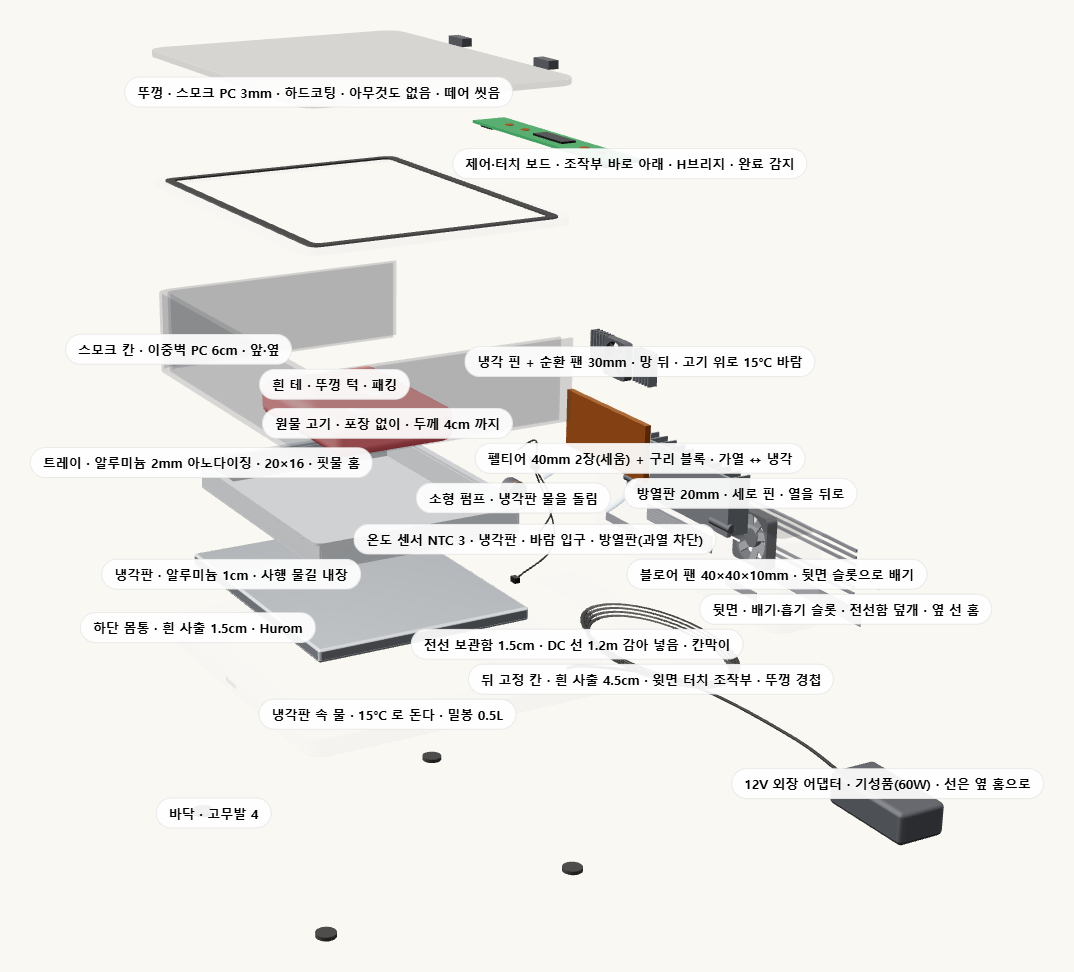
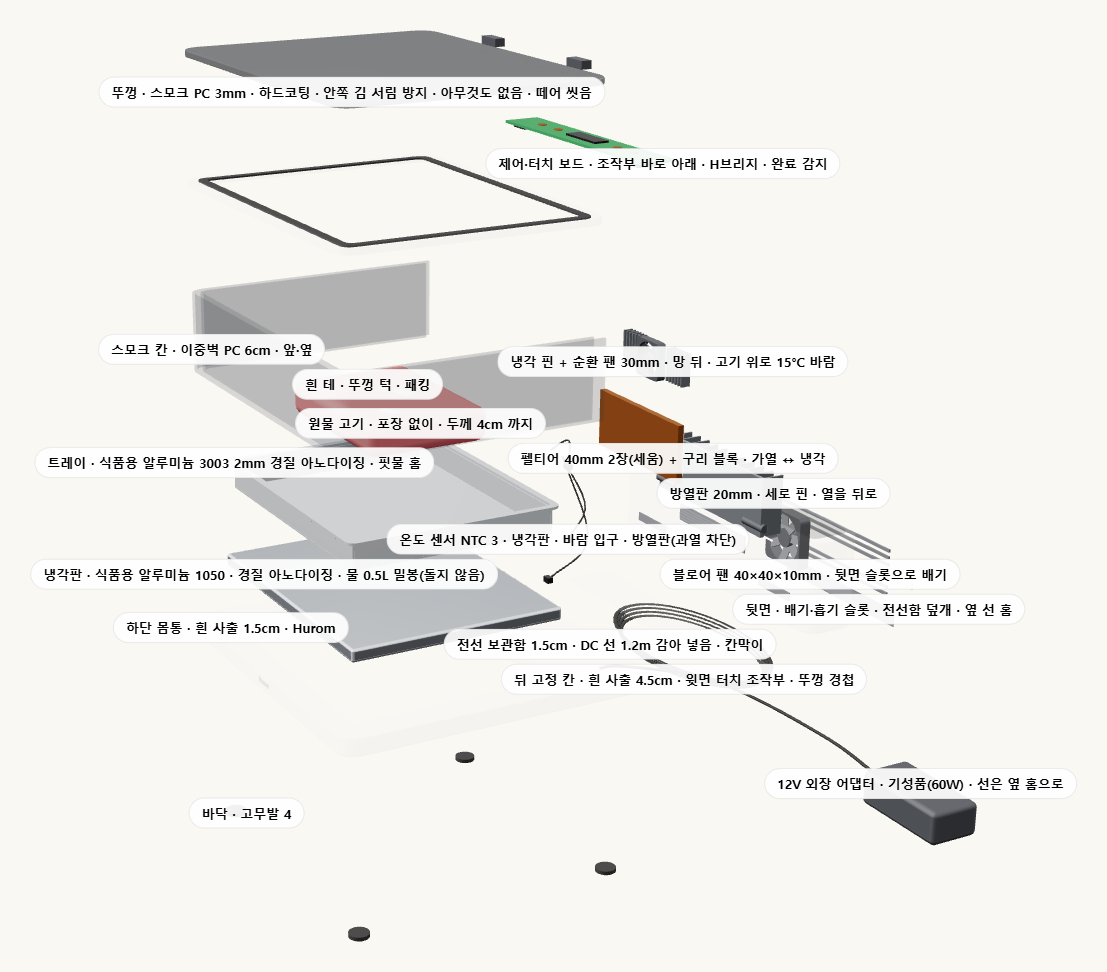
분해도 수정(두팔 검토): 펌프·물길 삭제(물 0.5L 밀봉, 돌지 않음), 뚜껑 스모크 색, 이름표 3003/1050/김 서림 방지 — 부품 18개, 페이지 펌프 문구 정리

diff --git a/index.html b/index.html
@@ -191,7 +191,7 @@ footer{padding:56px 0 72px;font-size:13px;color:var(--sub);border-top:1px solid 
     <div class="eyebrow">휴롬 신제품 기획 제안서 v4 최종 · 디자인 확정 · 2026.11.15</div>
     <h1>저녁 메뉴, <em>지금 정해도</em> 됩니다.</h1>
     <div class="sub">냉동 고기를 올리기만 하면, 15°C 냉각판과 15°C 바람이 감쌉니다</div>
-    <p>어제 꺼내 놓는 걸 잊은 냉동 삼겹살. 전자레인지는 겉이 익고, 실온은 찜찜합니다.<br>급속 해동기는 고기를 알루미늄 트레이에 그대로 올리고 뒤쪽 조작부의 「시작」을 한 번 누르면 됩니다. 물은 트레이 아래 밀봉된 냉각판 속에서만 돌고, 사용자는 물을 붓지도 버리지도 않습니다.</p>
+    <p>어제 꺼내 놓는 걸 잊은 냉동 삼겹살. 전자레인지는 겉이 익고, 실온은 찜찜합니다.<br>급속 해동기는 고기를 알루미늄 트레이에 그대로 올리고 뒤쪽 조작부의 「시작」을 한 번 누르면 됩니다. 트레이 아래 냉각판 속 물 0.5L는 밀봉돼 있어(돌지 않음) 사용자는 물을 붓지도 버리지도 않습니다.</p>
     <div class="chips"><span class="chip">터치 한 번 · 15°C 표시</span> <span class="chip">지퍼백 · 물 붓기 없음</span> <span class="chip">표면 21°C 아래 유지</span> <span class="chip">26×25×9cm · 높이 9cm</span></div>
   </div>
 </header>
@@ -202,7 +202,7 @@ footer{padding:56px 0 72px;font-size:13px;color:var(--sub);border-top:1px solid 
     <h2>휴롬 급속 해동기 — 서늘고 다음, 재료 준비 가전 두 번째</h2>
     <p class="lead2">서늘고가 「사 온 재료를 지키는」 제품이라면, 급속 해동기는 「얼려 둔 재료를 바로 쓰게 하는」 제품입니다. 둘 다 조리 앞단의 재료 준비 가전이고, 펠티어·팬·12V 어댑터를 같이 씁니다. v1의 「물통에 지퍼백째 담그기」는 버리고, <b>물이 트레이 바깥에서만 도는 「바닥 냉각판 트레이」</b>로 바꿨습니다.</p>
     <div class="sum3">
-      <div><small>목적</small><p>냉동 고기·생선을 <b>포장 없이 알루미늄 트레이에 올리면</b>, 트레이 아래 밀봉 냉각판 속 물이 15°C 안팎으로 돌고, 뒤 벽의 작은 팬이 같은 온도의 공기를 윗면에 흘립니다. 세균이 자라는 온도(4~60°C)에 표면이 오래 머물지 않게 하면서 얇은 고기는 15~20분, 2cm 두께는 한 시간 안팎에 녹입니다.</p></div>
+      <div><small>목적</small><p>냉동 고기·생선을 <b>포장 없이 알루미늄 트레이에 올리면</b>, 트레이 아래 밀봉 냉각판(물 0.5L, 펠티어가 15°C 안팎으로 맞춤)이 바닥을, 뒤 벽의 작은 팬이 같은 온도의 공기를 윗면에 흘립니다. 세균이 자라는 온도(4~60°C)에 표면이 오래 머물지 않게 하면서 얇은 고기는 20~25분, 2cm 두께는 60~70분에 녹입니다.</p></div>
       <div><small>왜 휴롬인가</small><ul><li><b>같은 고객:</b> 재료를 미리 사서 쟁여 두는 집이 휴롬 고객입니다. 냉동실에 고기가 늘 있습니다.</li><li><b>같은 부품:</b> 서늘고의 펠티어·팬·12V 어댑터·제어 보드 구조를 그대로 씁니다. 개발비와 공급처를 나눠 씁니다.</li><li><b>같은 약속:</b> 「재료를 가장 좋은 상태로」. 해동은 재료 상태를 가장 많이 망치는 순간입니다.</li></ul></div>
       <div><small>풀려는 문제</small><p>냉장 해동은 하루가 걸리고, 전자레인지는 겉이 익고 육즙이 빠지며, 실온·뜨거운 물은 위험합니다. 식약처·USDA가 권하는 「21°C 이하 찬물 해동」은 지퍼백에 옮기고 30분마다 물을 갈아야 해서 아무도 제대로 하지 않습니다. 그 일을 기계가 대신하되, <b>물과 봉지를 사용자 손에서 없앱니다.</b></p></div>
     </div>
@@ -261,7 +261,7 @@ footer{padding:56px 0 72px;font-size:13px;color:var(--sub);border-top:1px solid 
       <h2>올리고, 덮고, 누르면 끝.</h2>
       <div class="steps">
         <div><i>1</i><div><b>고기를 트레이에 그대로 올립니다</b><p>포장을 벗긴 원물이든 랩 포장 그대로든 알루미늄 트레이에 올립니다. 지퍼백에 옮기지 않고, 물을 붓지도 않습니다. 한 번에 고기 1~2팩(600g)까지.</p></div></div>
-        <div><i>2</i><div><b>뚜껑을 덮고 뒤쪽 조작부의 「시작」을 누릅니다</b><p>트레이 아래 냉각판 속 물이 돌기 시작하고 펠티어가 15°C 안팎에 맞춥니다. 뒤 벽 속 작은 팬이 뚜껑 아래 공기를 돌려 윗면에도 같은 온도의 바람이 닿습니다. 뒤 조작부의 「15°C」가 켜집니다.</p></div></div>
+        <div><i>2</i><div><b>뚜껑을 덮고 뒤쪽 조작부의 「시작」을 누릅니다</b><p>펠티어가 트레이 아래 냉각판을 15°C 안팎에 맞춥니다(속의 물 0.5L는 밀봉, 돌지 않음). 뒤 벽 속 작은 팬이 뚜껑 아래 공기를 돌려 윗면에도 같은 온도의 바람이 닿습니다. 뒤 조작부의 「15°C」가 켜집니다.</p></div></div>
         <div><i>3</i><div><b>다 녹으면 알려 주고, 차갑게 지킵니다</b><p>고기가 열을 더 가져가지 않으면(펠티어가 쓰는 힘이 뚝 떨어지면) 완료로 보고 알림음 한 번. 그 뒤에는 냉각판과 바람을 10°C로 내려 최대 2시간 냉장고처럼 지킵니다. 트레이를 들어 헹구면 끝입니다.</p></div></div>
       </div>
       <div class="led"><span><i style="background:#ffffff;border:1px solid #bbb"></i>「15°C」 · 해동 중</span><span><i style="background:#9fc3ee"></i>「10°C」 + 알림음 · 완료, 차갑게 보관 중</span><span><i style="background:#ef5b4c"></i>깜빡임 + 「E1」 · 뚜껑 열림 · 21°C 초과</span></div>
@@ -274,8 +274,8 @@ footer{padding:56px 0 72px;font-size:13px;color:var(--sub);border-top:1px solid 
     <div class="xv-text">
       <div class="xv-step on"><div class="kicker">구조 · 겉모습 U4 (식자재 세척기 UC-B01 계열)</div><h2>높이 9cm, 세척기와 한 식구.</h2><p>흰 하단 1.5cm 위에 이중벽 스모크 칸 6cm, 그 위에 아무것도 없는 스모크 PC 뚜껑. 뒤쪽 4.5cm는 움직이지 않는 부품 칸이고, 그 윗면의 블랙 유리에 터치 아이콘과 「15°C」가 있습니다. 스크롤을 내리면 부품별로 분해됩니다.</p></div>
       <div class="xv-step"><div class="kicker">구조 · 뒷모습</div><h2>더운 바람과 전선은 모두 뒤로.</h2><p>방열판 바람은 뒷면 위 슬롯으로 나가고, 아래 슬롯으로 들어옵니다. 뒤 칸 맨 아래 1.5cm는 칸막이로 나눈 전선 보관함 — DC 선 1.2m를 감아 넣고 옆 홈으로 필요한 만큼만 뺍니다. 윗면엔 구멍이 없어 핏물·물이 들어갈 데가 없습니다.</p></div>
-      <div class="xv-step"><div class="kicker">구조 · 냉각판과 바람</div><h2>물은 바닥 냉각판 속에서만 돕니다.</h2><p>옆면이 투명 칸이라 옆 재킷은 없습니다. 대신 트레이 아래 알루미늄 냉각판(1cm) 속을 15°C 물이 사행으로 돌고(파란 점), 뒤 벽 안쪽 냉각 핀을 지난 같은 온도의 바람이 고기 위·옆을 스칩니다(하늘색). 펠티어 2장의 찬 면이 냉각판 물과 냉각 핀을 같이 식힙니다.</p></div>
-      <div class="xv-step"><div class="kicker">구조 · 분해</div><h2>부품 20개, 경첩을 지나는 선이 없습니다.</h2><p>트레이와 뚜껑은 들어서 빼 씻습니다. 온도 센서는 NTC 3개(냉각판·바람 입구·방열판)입니다. 뒤 칸에 펠티어 40mm 2장(세움) → 구리 블록 → 방열판 20mm → 블로어 팬이 한 줄로 서고, 펌프·순환 팬·제어 보드도 같은 칸에 있어 배선이 짧습니다. 어댑터는 바깥 기성품입니다.</p></div>
+      <div class="xv-step"><div class="kicker">구조 · 냉각판과 바람</div><h2>바닥은 냉각판, 위와 옆은 바람.</h2><p>옆면이 투명 칸이라 옆 재킷은 없습니다. 트레이 아래 알루미늄 1050 냉각판(1cm, 물 0.5L 밀봉 — 돌지 않고 냉기를 담아 둠)이 바닥을 맡고, 뒤 벽 안쪽 냉각 핀을 지난 같은 온도의 바람이 고기 위·옆을 스칩니다(하늘색). 펠티어 2장의 찬 면이 냉각판과 냉각 핀을 같이 식힙니다. 펌프·물길은 없습니다.</p></div>
+      <div class="xv-step"><div class="kicker">구조 · 분해</div><h2>부품 18개, 경첩을 지나는 선이 없습니다.</h2><p>트레이와 뚜껑은 들어서 빼 씻습니다. 온도 센서는 NTC 3개(냉각판·바람 입구·방열판)입니다. 뒤 칸에 펠티어 40mm 2장(세움) → 구리 블록 → 방열판 20mm → 블로어 팬이 한 줄로 서고, 순환 팬·제어 보드도 같은 칸에 있어 배선이 짧습니다. 펌프는 없습니다. 어댑터는 바깥 기성품입니다.</p></div>
     </div>
     <div class="xv-stage"><canvas id="xv-canvas" aria-label="급속 해동기 분해도 3D"></canvas><div id="xv-labels"></div><div class="xv-colors" role="group" aria-label="몸체 색 · 확정은 화이트"><button data-xv-color="white" class="on"><i style="background:#f3f3f0;border:1px solid #ccc"></i>화이트(확정)</button><button data-xv-color="graphite"><i style="background:#4b4f55"></i>그래파이트</button><button data-xv-color="black"><i style="background:#15171a"></i>블랙</button></div></div>
   </div>
@@ -292,7 +292,7 @@ footer{padding:56px 0 72px;font-size:13px;color:var(--sub);border-top:1px solid 
     </div>
     <div class="sum2 rv" style="margin-top:32px;grid-template-columns:1.3fr 1fr">
       <div><small>최종 이미지 1 · 대표 (앞 45°) — 흰 상자 · 이중벽 스모크 PC 띠 · 아무것도 없는 스모크 PC 뚜껑 · 뒤 칸 윗면 조작부 · 회색 「Hurom」</small><div class="photo" style="margin:0 0 10px;border-radius:16px"><img src="img/hero.png" alt="최종 이미지 1 · 대표 · 앞 45° · 26×25×9cm"></div></div>
-      <div><small>최종 이미지 2 · 분해도 — 뒤 칸을 열면 펠티어 2장(세움) · 구리 블록 · 방열판 · 블로어 팬 · 맨 아래 전선 보관함 · 무광 회색 알루미늄 트레이(핏물 홈)</small><div class="photo" style="margin:0 0 10px;border-radius:16px"><img src="img/explode.png" alt="최종 이미지 2 · 분해도 · 부품 20개"></div></div>
+      <div><small>최종 이미지 2 · 분해도 — 뒤 칸을 열면 펠티어 2장(세움) · 구리 블록 · 방열판 · 블로어 팬 · 맨 아래 전선 보관함 · 무광 회색 알루미늄 트레이(핏물 홈)</small><div class="photo" style="margin:0 0 10px;border-radius:16px"><img src="img/explode.png" alt="최종 이미지 2 · 분해도 · 부품 18개"></div></div>
     </div>
     <div class="sum2 rv">
       <div><small>높이 9cm 나눠 쓰기</small><ul>
@@ -352,7 +352,7 @@ footer{padding:56px 0 72px;font-size:13px;color:var(--sub);border-top:1px solid 
       <div><b>60W</b><span>12V 외장 어댑터 최대 · 펠티어 2개 가열 때</span></div>
       <div><b>5</b><span>뒤 칸 윗면 터치 5 + 「15°C」 표시 · 앱·블루투스 없음</span></div>
       <div><b>3벌</b><span>새 금형 · 하단 몸통 · 뒤 칸 · 흰 테 · 트레이는 프레스, 냉각판은 다이캐스팅, 스모크 칸은 PC 사출</span></div>
-      <div><b>35dB↓</b><span>소음 목표 · 펌프·팬 2개 · 도서관 수준</span></div>
+      <div><b>35dB↓</b><span>소음 목표 · 팬 2개(펌프 없음) · 도서관 수준</span></div>
       <div><b>0</b><span>사용자가 다루는 물 · 냉각판 0.5L 밀봉 · 고기와 전기 사이에 물 없음</span></div>
     </div>
     <table class="spect rv">
@@ -360,7 +360,7 @@ footer{padding:56px 0 72px;font-size:13px;color:var(--sub);border-top:1px solid 
       <tr><td>제품명</td><td>휴롬 급속 해동기 (가칭) · 이름 후보: 녹임고 · 스르르 · 해동이 → 미정</td></tr>
       <tr><td>크기 · 무게</td><td>약 26 × 25 × 9cm (W×D×H, 뒤 부품 칸 4.5cm 포함) · 약 2.0kg (목표, 물 포함)</td></tr>
       <tr><td>트레이</td><td>식품용 알루미늄 <b>3003</b> 2mm 프레스 + 경질 아노다이징(식품 접촉 등급, 열전도 약 190W/m·K) · 안쪽 약 20 × 16 × 2cm · 둘레 1cm 핏물 홈 · 고기 두께 최대 4cm · 들어서 빼고 <b>손 세척 권장</b>(식기세척기 강알칼리 세제는 피막 손상)</td></tr>
-      <tr><td>냉각판 · 물</td><td>식품용 알루미늄 <b>1050</b>(순도 99.5%, 열전도 약 220W/m·K, 겉면 아노다이징) 약 21.6 × 17 × 1cm, 속에 사행 물길 물 0.5L · 공장에서 채워 봉함(사용자 보충 없음) · <b>바닥에만</b>(옆 재킷 없음 — 옆면이 투명 칸)</td></tr>
+      <tr><td>냉각판 · 물</td><td>식품용 알루미늄 <b>1050</b>(순도 99.5%, 열전도 약 220W/m·K, 겉면 아노다이징) 약 21.6 × 17 × 1cm, 속에 물 0.5L <b>밀봉(돌지 않음 — 펌프·물길 없음, 냉기를 담아 두는 열용량)</b> · 공장에서 채워 봉함(사용자 보충 없음) · <b>바닥에만</b>(옆 재킷 없음 — 옆면이 투명 칸)</td></tr>
       <tr><td>닿는 부품 모두 식품용</td><td>고기·물·공기에 닿는 부품은 전부 식품 접촉 등급(준보 「다 식품용」) — 트레이: 알루미늄 3003 + 경질 아노다이징 · 냉각판: 알루미늄 1050 + 아노다이징, 안에 물 밀봉 · 뚜껑: 스모크 PC 또는 트라이탄 2~3mm(BPA-free, 식품 용기 등급) · 안쪽 칸 벽·망: PP 또는 PC, 냉각 핀: 아노다이징 알루미늄 · 뚜껑 패킹: 식품용 실리콘 · 증빙: 원소재 성적서 + 식품위생법 「기구 및 용기·포장」 기준 재질별 용출 시험 성적서(ODM 견적 요청서에 포함)</td></tr>
       <tr><td>겉모습 · 색상</td><td>휴롬 식자재 세척기 UC-B01 계열(U4 확정) — 흰 무광 하단 1.5cm + 「Hurom」 · 이중벽 스모크 PC 칸 6cm(앞·옆) · 흰 테 · 아무것도 없는 스모크 PC(또는 트라이탄) 뚜껑 2~3mm — 바깥 하드코팅 · 안쪽 김 서림 방지 코팅 · 가벼워 들어서 분리 · 뒤 고정 칸 윗면 블랙 유리 조작부. 색은 흰색 + 블랙 유리(서늘고 3색 하단은 쓰지 않음)</td></tr>
       <tr><th colspan="2">해동</th></tr>
@@ -372,7 +372,7 @@ footer{padding:56px 0 72px;font-size:13px;color:var(--sub);border-top:1px solid 
       <tr><td>사용 조건</td><td>포장 벗긴 원물 또는 랩 포장 그대로 · 뚜껑 닫힘 감지(열리면 팬 정지)</td></tr>
       <tr><th colspan="2">구조 · 전기</th></tr>
       <tr><td>온도 조절</td><td>펠티어 소자 2개(TEC1-127 계열) · H브리지로 가열↔냉각 전환 · 구리 열전달 블록(선택)이 냉각판과 냉각 핀에 밀착</td></tr>
-      <tr><td>순환</td><td>소형 자석 구동 펌프 · 밀봉 회로 · 분당 약 1~2L · 물에 닿는 전기부 없음</td></tr>
+      <tr><td>순환</td><td>물 순환 없음(펌프 없음) · 공기만 30mm 팬으로 순환 · 물에 닿는 전기부 없음</td></tr>
       <tr><td>센서</td><td>온도 NTC 3개(아래 줄) · 뚜껑 열림 감지(자석 스위치) · 적외선 센서 없음</td></tr>
       <tr><td>방열</td><td>뒤 고정 칸 속 방열판 20mm + 블로어 팬 40×40×10mm · 뒷면 아래 슬롯 흡기 → 뒷면 위 슬롯 배기 · 윗면에는 구멍 없음</td></tr>
       <tr><td>전원</td><td>12V 외장 어댑터 60W(KC 기성품) · 해동 중 평균 약 35W · 보관 중 약 20W</td></tr>
@@ -398,7 +398,7 @@ footer{padding:56px 0 72px;font-size:13px;color:var(--sub);border-top:1px solid 
     <div class="modes rv">
       <div class="mode"><b>국내 · 식약처</b><div class="t">21°C 이하</div><p>냉동식품은 냉장 온도나 <b>21°C 이하의 흐르는 물</b>로 해동하라는 기준입니다. 급할 때는 전자레인지 해동도 됩니다. (정책브리핑을 요약한 기사 기준 · 식약처 원문은 확인 중)</p></div>
       <div class="mode"><b>미국 · USDA</b><div class="t">30분마다 물 갈기</div><p>찬물 해동은 <b>포장한 채로</b> 물에 담그고, 물이 차갑게 유지되도록 30분마다 갈아 줍니다. 해동이 끝나면 바로 조리합니다. 세균이 빨리 자라는 온도는 약 4~60°C(40~140°F)입니다.</p></div>
-      <div class="mode"><b>그래서 바닥 냉각판</b><div class="t">기준의 핵심만 가져옴</div><p>기준이 말하는 핵심은 「표면이 21°C를 넘지 않게, 쉬지 않고 열을 넘겨라」입니다. 펌프가 냉각판 속 물을 계속 돌리고 펠티어가 21°C 아래에 잡아 두면 「30분마다 물 갈기」가 필요 없고, 고기가 물에 닿지 않으니 교차오염 걱정도 없습니다.</p></div>
+      <div class="mode"><b>그래서 바닥 냉각판</b><div class="t">기준의 핵심만 가져옴</div><p>기준이 말하는 핵심은 「표면이 21°C를 넘지 않게, 쉬지 않고 열을 넘겨라」입니다. 펠티어가 냉각판과 바람을 21°C 아래에 잡아 두면 「30분마다 물 갈기」가 필요 없고, 고기가 물에 닿지 않으니 교차오염 걱정도 없습니다.</p></div>
     </div>
     <div class="sum2 rv" style="margin-top:28px">
       <div><small>설계에 넣는 안전 장치 3개</small><ul>
@@ -420,7 +420,7 @@ footer{padding:56px 0 72px;font-size:13px;color:var(--sub);border-top:1px solid 
     <div class="rv">
       <div class="kicker">개발비와 소싱</div>
       <h2>가정용 완제품 ODM은 없습니다. 부품을 모아 직접 설계합니다.</h2>
-      <p class="lead2">서늘고와 달리 그대로 가져다 쓸 「가정용 해동기 플랫폼」이 시장에 없습니다. 대신 들어가는 부품은 전부 흔한 것들입니다. 펠티어·팬·어댑터는 서늘고와 같은 곳에서, 펌프는 어항·커피머신 펌프 업체에서, 트레이는 알루미늄 프레스·아노다이징 업체에서, 냉각판은 알루미늄 다이캐스팅 업체에서 받아 조합합니다.</p>
+      <p class="lead2">서늘고와 달리 그대로 가져다 쓸 「가정용 해동기 플랫폼」이 시장에 없습니다. 대신 들어가는 부품은 전부 흔한 것들입니다. 펠티어·팬·어댑터는 서늘고와 같은 곳에서, 트레이는 알루미늄 프레스·아노다이징 업체에서, 냉각판은 알루미늄 다이캐스팅 업체에서 받아 조합합니다.</p>
     </div>
     <div class="rv" style="margin-top:24px">
       <small style="display:block;margin-bottom:8px;color:var(--sub)">개발비 추정 · 견적 받기 전 범위(만 원)</small>
@@ -428,7 +428,7 @@ footer{padding:56px 0 72px;font-size:13px;color:var(--sub);border-top:1px solid 
       <tr><td><b>산업 디자인</b></td><td>겉모습·뚜껑·색 확정, 3D 설계 데이터 (서늘고와 한 가족으로)</td><td>800~1,500</td><td>휴롬 디자인팀 + 외주 디자인 회사</td></tr>
       <tr><td><b>워킹 목업·시제품</b></td><td>3D 프린팅·CNC 목업 2~3대 + 해동 실험용 벤치</td><td>400~900</td><td>국내 시제품 업체</td></tr>
       <tr><td><b>금형 3벌 + 트레이·냉각판</b></td><td>하단 몸통·뒤 칸·흰 테 사출 금형 3벌 + 스모크 칸 PC 사출 + 알루미늄 트레이 프레스 1벌 + 알루미늄 냉각판 다이캐스팅 1벌</td><td>3,500~6,500</td><td>휴롬 기존 사출 협력사 + 프레스·다이캐스팅 업체 또는 중국 ODM 일괄</td></tr>
-      <tr><td><b>온도·순환 모듈</b></td><td>펠티어 2·구리 블록·방열판·팬 2(방열·안쪽 순환)·소형 펌프</td><td>부품비 외 개발비 적음</td><td>서늘고 공급처 + 펌프 업체 기성품</td></tr>
+      <tr><td><b>온도·순환 모듈</b></td><td>펠티어 2·구리 블록·방열판·팬 2(방열·안쪽 순환) · 펌프 없음</td><td>부품비 외 개발비 적음</td><td>서늘고 공급처 기성품</td></tr>
       <tr><td><b>제어 보드·펌웨어</b></td><td>H브리지 가열↔냉각, 온도 제어, 완료 감지 알고리즘, 안전 정지</td><td>800~1,500</td><td>서늘고 보드 뼈대 재사용 + 국내 임베디드 외주</td></tr>
       <tr><td><b>해동 안전 시험</b></td><td>두께별 시간·표면 온도 기록, 미생물 시험(외부 기관) → 표시 문구 근거</td><td>500~1,000</td><td>국내 식품 시험 기관 + 사내 실험</td></tr>
       <tr><td><b>인증·시험</b></td><td>본체 KC 전자파, 식품 접촉부 소재 시험 (어댑터는 KC 기성품)</td><td>300~600</td><td>국내 시험인증기관</td></tr>
@@ -444,7 +444,6 @@ footer{padding:56px 0 72px;font-size:13px;color:var(--sub);border-top:1px solid 
       <div><small>부품별 소싱처 · 초안 (곽두팔, 2026-11-14)</small><ul>
         <li><b>완제품 ODM:</b> 업소용 해동기는 톤 단위 산업용 업체뿐이라 가정용 완제품 ODM은 없습니다. 그래서 <b>자체 설계 + 부품 소싱</b>이 맞습니다.</li>
         <li><b>펠티어·팬·12V 어댑터:</b> 서늘고 공급처를 같이 씁니다. 펠티어는 12V 범용 규격(TEC1-127 계열)이라 공급 위험이 낮습니다.</li>
-        <li><b>소형 수중 펌프(자석 구동):</b> 어항·커피머신 펌프 업체에서 기성품으로 받습니다.</li>
         <li><b>트레이·망:</b> 알루미늄 프레스 + 식품 등급 경질 아노다이징 업체(시중 해동판 제조사와 같은 공정). 기성 규격에 가깝게 맞추면 프레스 금형을 아낄 수 있습니다.</li>
         <li><b>알루미늄 물 재킷:</b> 국내 다이캐스팅 업체 또는 알루미늄 판금 용접(시제품 단계). 밀봉·누수 시험 조건을 같이 넣습니다.</li>
         <li><b>해동판 부품(B안·보조용):</b> 중국 주방용품 OEM 업체들이 알루미늄 해동판을 이미 만듭니다 — <a href="https://kr.made-in-china.com/factory/defrost-plate.html" target="_blank" rel="noopener">Made-in-China 해동판 업체 목록</a> · <a href="https://www.alibaba.com/product-introduction/Quick-Thawing-Metal-Plate-Magic-Kitchen_1601383505838.html" target="_blank" rel="noopener">알루미늄 해동판 예시(Alibaba)</a></li></ul>
@@ -461,14 +460,14 @@ footer{padding:56px 0 72px;font-size:13px;color:var(--sub);border-top:1px solid 
         <li><b>서늘고와 묶어 집행.</b> 보드·펠티어·어댑터를 같이 개발·구매하면 둘 다 싸집니다.</li>
         <li><b>정부 지원.</b> 식품 안전·주방가전 신제품 개발 과제. 기업 규모 요건부터 확인합니다.</li></ul></div>
       <div><small>돈 쓰는 순서 · 큰돈은 Go 결정 뒤에</small><ul>
-        <li><b>1단계 · 확인(약 1천만 원):</b> 기성 펌프·히터로 벤치를 만들어 두께별 시간과 표면 온도를 잽니다. 설문과 함께 Go/Stop.</li>
+        <li><b>1단계 · 확인(약 1천만 원):</b> 기성 펠티어 냉각판·USB 팬으로 벤치를 만들어 두께별 시간과 표면 온도를 잽니다. 설문과 함께 Go/Stop.</li>
         <li><b>2단계 · 디자인·목업·견적(약 2~3천만 원):</b> 겉모습 확정, 워킹 목업, 부품 업체 견적.</li>
         <li><b>3단계 · 금형·안전 시험·인증(4~8천만 원):</b> 양산 결정 뒤에만 집행합니다.</li>
         <li><b>4단계 · 초기 양산:</b> 운전자금으로 별도.</li></ul></div>
       <div><small>부품 견적 요청서에 넣을 것</small><ul>
-        <li>알루미늄 트레이 2mm 아노다이징 안쪽 20×16×2cm(핏물 홈), 알루미늄 냉각판(물길 내장, 밀봉), 이중벽 PC 스모크 칸, 스모크 PC 뚜껑(하드코팅·김 서림 방지) — 식품 접촉 재료는 모두 식품용 등급</li>
+        <li>알루미늄 트레이 2mm 아노다이징 안쪽 20×16×2cm(핏물 홈), 알루미늄 1050 냉각판(물 0.5L 밀봉, 돌지 않음), 이중벽 PC 스모크 칸, 스모크 PC 뚜껑(하드코팅·김 서림 방지) — 식품 접촉 재료는 모두 식품용 등급</li>
         <li>재킷 온도 15°C ±1 유지(실온 5~30°C 시작), 60W 안에서 가열·냉각 전환</li>
-        <li>소형 밀봉 펌프 분당 1~2L + 30mm 순환 팬, 소음 35dB 이하, 12V</li>
+        <li>30mm 순환 팬 + 블로어 팬(펌프 없음), 소음 35dB 이하, 12V</li>
         <li>정전식 터치 5·「15°C」 LED·부저, 전선 보관함(DC 선 1.2m), 12V 외장 어댑터, 금형 벌수·개발비·최소 주문량·샘플 일정·KC 경험</li></ul></div>
     </div>
   </div>
@@ -526,10 +525,10 @@ footer{padding:56px 0 72px;font-size:13px;color:var(--sub);border-top:1px solid 
       <p class="lead2">서늘고와 같은 순서입니다. 기성 부품으로 벤치를 만들어 「정말 빠른지」와 「표면이 안전한지」를 먼저 재고, 설문으로 「살 사람이 있는지」를 봅니다.</p>
     </div>
     <div class="gate rv">
-      <div><small>1단계 · 1~2주차</small><b>벤치 실험</b><p>알루미늄 판 아래로 15°C 물을 어항 펌프로 돌리는 「냉각판 모형」 위에 GN 팬 트레이를 올리고, 뒤에서 USB 팬으로 같은 온도의 바람을 보냅니다. 삼겹살 1·2·3cm, 생선 토막으로 중심·표면 온도를 열전대로 기록합니다. 비교군은 담금식·해동판·냉장.</p></div>
+      <div><small>1단계 · 1~2주차</small><b>벤치 실험</b><p>15°C로 맞춘 알루미늄 판(펠티어 냉각판 모형, 속에 물 밀봉) 위에 GN 팬 트레이를 올리고, 뒤에서 USB 팬으로 같은 온도의 바람을 보냅니다. 삼겹살 1·2·3cm, 생선 토막으로 중심·표면 온도를 열전대로 기록합니다. 비교군은 담금식·해동판·냉장.</p></div>
       <div><small>2단계 · 2~3주차</small><b>고객 설문</b><p>해동 빈도·현재 방법·기다릴 수 있는 시간·물 다루기 수용도. 구매 의향은 가격 없이 「있으면 쓰겠다」로 묻습니다.</p></div>
       <div><small>3단계 · 4주차</small><b>Go / Stop</b><p>아래 기준 4개를 모두 넘으면 디자인·목업·견적(2단계 예산)으로 넘어갑니다.</p></div>
-      <div><small>Go 기준 4개</small><b>숫자로 판정</b><p>① 2cm 삼겹살 60분 이내 ② 해동 내내 표면 15°C 이하(윗면 포함) ③ 설문 구매 의향 20% 이상 ④ 펌프·팬 소음 35dB 이하</p></div>
+      <div><small>Go 기준 4개</small><b>숫자로 판정</b><p>① 2cm 삼겹살 60분 이내 ② 해동 내내 표면 15°C 이하(윗면 포함) ③ 설문 구매 의향 20% 이상 ④ 팬 소음 35dB 이하</p></div>
     </div>
     <p class="note" style="margin-top:20px">일정·OEM 문의·안전 기준·디자인 시안·가격은 곽두팔, 페이지·3D·실험 설계는 강명식이 맡습니다. 펀딩 내용은 이 문서에 넣지 않습니다.</p>
   </div>

diff --git a/explode.js b/explode.js
@@ -177,7 +177,7 @@ window.xvSetColor = setColor;
   g.add(extrudeUp(rrect(W - 0.02, FD - 0.02, R, new THREE.Shape(), 0, -FZ), 0.05, M.lidGlass, 0, 0.01));
   [-0.6, 0.6].forEach(x => { const c = new THREE.Mesh(new THREE.BoxGeometry(0.2, 0.06, 0.08), M.dark); c.position.set(x, 0.04, -FD / 2 + 0.06); g.add(c); });
   g.position.set(0, BASE + GL + RIM, 0);
-  part('뚜껑 · 스모크 PC 3mm · 하드코팅 · 아무것도 없음 · 떼어 씻음', g, [0, 3.7, 0], new THREE.Vector3(1.0, 0.05, 1.0));
+  part('뚜껑 · 스모크 PC 3mm · 하드코팅 · 안쪽 김 서림 방지 · 아무것도 없음 · 떼어 씻음', g, [0, 3.7, 0], new THREE.Vector3(1.0, 0.05, 1.0));
 }
 /* 6. 트레이 — 알루미늄 2mm + 경질 아노다이징(식품 등급), 원물을 그대로 올림. 가장자리 핏물 홈, 들어서 빼고 손 세척 */
 const tray = new THREE.Group();
@@ -190,7 +190,7 @@ const tray = new THREE.Group();
   const rimS = rrect(w + 0.1, d + 0.1, 0.08); rimS.holes.push(rrect(w - 0.01, d - 0.01, 0.04));
   const rimM = new THREE.Mesh(new THREE.ExtrudeGeometry(rimS, { depth: 0.02, bevelEnabled: false, curveSegments: 24 }), M.steel); rimM.rotation.x = -Math.PI / 2; rimM.position.y = TDEEP; tray.add(rimM);
   tray.position.set(0, BASE, ZC);
-  part('트레이 · 알루미늄 2mm 아노다이징 · 20×16 · 핏물 홈', tray, [0, 1.1, 0], new THREE.Vector3(-1.0, 0.2, 0.8));
+  part('트레이 · 식품용 알루미늄 3003 2mm 경질 아노다이징 · 핏물 홈', tray, [0, 1.1, 0], new THREE.Vector3(-1.0, 0.2, 0.8));
 }
 /* 7. 원물 고기 — 지퍼백 없이 트레이에 그대로. 두께 4cm 까지 */
 {
@@ -206,25 +206,14 @@ const tray = new THREE.Group();
   const g = new THREE.Group();
   g.add(new THREE.Mesh(new RoundedBoxGeometry(PW, PT, PD, 2, 0.02), M.alu));
   g.position.set(0, BASE - PT / 2, ZC);
-  part('냉각판 · 알루미늄 1cm · 사행 물길 내장', g, [0, 0.55, 0], new THREE.Vector3(-1.05, 0, 0.55));
+  part('냉각판 · 식품용 알루미늄 1050 · 경질 아노다이징 · 물 0.5L 밀봉(돌지 않음)', g, [0, 0.55, 0], new THREE.Vector3(-1.05, 0, 0.55));
 }
-/* 9. 냉각판 속 물 — 밀봉 0.5L. 사용자가 붓거나 버리지 않는다 */
-const CH = 5, SP = (PD - 0.44) / (CH - 1);
-{
-  const g = new THREE.Group();
-  for (let i = 0; i < CH; i++) { const ch = new THREE.Mesh(new THREE.BoxGeometry(PW - 0.3, 0.05, 0.14), M.water); ch.position.set(0, 0, -PD / 2 + 0.22 + i * SP); g.add(ch); }
-  [[-1, 0], [1, 1], [-1, 2], [1, 3]].forEach(([sx, i]) => { const j = new THREE.Mesh(new THREE.BoxGeometry(0.14, 0.05, SP), M.water); j.position.set(sx * (PW / 2 - 0.22), 0, -PD / 2 + 0.22 + i * SP + SP / 2); g.add(j); });
-  g.name = 'water';
-  g.position.set(0, BASE - PT / 2, ZC);
-  part('냉각판 속 물 · 15°C 로 돈다 · 밀봉 0.5L', g, [0, 0.55, 0], new THREE.Vector3(1.05, 0.05, 0.3), true);
-}
-/* 10. 펠티어 40mm 2장 + 구리 블록 — 뒤 칸에 세움(전선 보관함 칸막이 위). 찬 면은 블록(물)과 안쪽 냉각 핀으로, 더운 면은 방열판으로 */
+/* 10. 펠티어 40mm 2장 + 구리 블록 — 뒤 칸에 세움(전선 보관함 칸막이 위). 찬 면은 블록을 거쳐 냉각판(물 밀봉, 돌지 않음)과 안쪽 냉각 핀으로, 더운 면은 방열판으로 */
 const SY = BASE + CAB + 0.3;   // 뒤 칸 부품 줄 중심 높이
 {
   const g = new THREE.Group();
   const block = new THREE.Mesh(new THREE.BoxGeometry(1.1, 0.46, 0.05), M.copper); g.add(block);
   [-0.3, 0.3].forEach(x => { const c = new THREE.Mesh(new THREE.BoxGeometry(0.4, 0.4, 0.04), M.ceramic); c.position.set(x, 0, -0.045); g.add(c); });
-  [[-0.45], [0.45]].forEach(([x]) => { const t = new THREE.Mesh(new THREE.TubeGeometry(new THREE.CatmullRomCurve3([new THREE.Vector3(x, -0.23, 0.03), new THREE.Vector3(x, -0.36, 0.14), new THREE.Vector3(x, -0.44, 0.3)]), 10, 0.02, 8), M.tube); g.add(t); });
   g.position.set(0, SY, MZ + 0.15);
   part('펠티어 40mm 2장(세움) + 구리 블록 · 가열 ↔ 냉각', g, [0, 0.9, -1.1], new THREE.Vector3(0.6, 0.05, 0.1), true);
 }
@@ -251,15 +240,6 @@ function fan(size = 0.5) {
   const g = fan(0.45);
   g.position.set(0, SY, MZ - 0.13);
   part('블로어 팬 40×40×10mm · 뒷면 슬롯으로 배기', g, [0, -0.2, -2.3], new THREE.Vector3(0.3, 0, 0), true);
-}
-/* 13. 소형 펌프 — 뒤 칸 왼쪽, 칸막이 위. 밀봉 회로라 물에 닿는 전기부 없음 */
-{
-  const g = new THREE.Group();
-  const body = new THREE.Mesh(new THREE.CylinderGeometry(0.09, 0.09, 0.16, 24), M.dark); body.rotation.z = Math.PI / 2; g.add(body);
-  const coil = new THREE.Mesh(new THREE.TorusGeometry(0.07, 0.022, 10, 24), M.copper); coil.rotation.y = Math.PI / 2; coil.position.x = 0.05; g.add(coil);
-  const t1 = new THREE.Mesh(new THREE.TubeGeometry(new THREE.CatmullRomCurve3([new THREE.Vector3(0.1, 0.0, 0.05), new THREE.Vector3(0.2, -0.06, 0.2), new THREE.Vector3(0.25, -0.12, 0.33)]), 10, 0.02, 8), M.tube); g.add(t1);
-  g.position.set(-0.95, BASE + CAB + 0.12, MZ + 0.08);
-  part('소형 펌프 · 냉각판 물을 돌림', g, [-1.2, -0.1, -1.5], new THREE.Vector3(0.0, -0.08, 0), true);
 }
 /* 14. 냉각 핀 + 순환 팬 30mm — 뒤 칸 안쪽 면, 망 뒤. 구리 블록에서 이어진 찬 핀을 지난 바람을 고기 위로 */
 {
@@ -327,18 +307,6 @@ function fan(size = 0.5) {
   g.name = 'adapter';
   part('12V 외장 어댑터 · 기성품(60W) · 선은 옆 홈으로', g, [1.2, -0.7, -0.7], new THREE.Vector3(1.6, 0.28, -1.9));
 }
-/* 물살 — 구리 블록 → 냉각판 사행 물길 → 펌프 → 블록 */
-const flowG = new THREE.Group(); flowG.name = 'flowg'; product.add(flowG);
-{
-  const y = BASE - PT / 2, X = PW / 2 - 0.22;
-  const pts = [new THREE.Vector3(-0.45, SY - 0.1, MZ + 0.18), new THREE.Vector3(-0.45, y + 0.03, MZ + 0.42)];
-  for (let i = 0; i < CH; i++) { const z = ZC - PD / 2 + 0.22 + i * SP; const sx = i % 2 === 0 ? -1 : 1; pts.push(new THREE.Vector3(sx * X, y, z), new THREE.Vector3(-sx * X, y, z)); }
-  pts.push(new THREE.Vector3(-0.95, y + 0.03, MZ + 0.42), new THREE.Vector3(-0.95, BASE + CAB + 0.12, MZ + 0.08), new THREE.Vector3(0.45, SY - 0.1, MZ + 0.18));
-  const c = new THREE.CatmullRomCurve3(pts, true, 'catmullrom', 0.1);
-  flowG.add(new THREE.Mesh(new THREE.TubeGeometry(c, 160, 0.012, 6, true), M.flow));
-  flowG.userData.curve = c;
-  for (let i = 0; i < 18; i++) { const d = new THREE.Mesh(new THREE.SphereGeometry(0.03, 12, 12), M.flow); d.userData.t = i / 18; flowG.add(d); }
-}
 /* 공기 흐름 — 뒤 위 망(냉각 핀)에서 나와 뚜껑 아래로 앞까지, 내려와 트레이 옆을 지나 뒤 아래 망으로 */
 const airG = new THREE.Group(); airG.name = 'airg'; product.add(airG);
 {
@@ -393,7 +361,7 @@ function frame(now) {
   M.case.opacity = 1 - 0.86 * ghost; M.case.depthWrite = ghost < 0.01;
   M.panel.opacity = 1 - 0.86 * ghost; M.panel.depthWrite = ghost < 0.01;
   M.smoke.opacity = 0.36 - 0.26 * ghost;
-  M.lidGlass.opacity = 0.9 - 0.72 * ghost;
+  M.lidGlass.opacity = 0.9 - 0.28 * ghost;   // 분해도에서도 스모크 색이 보이게
   M.touch.opacity = 1 - 0.7 * ghost; M.logo.opacity = 1 - 0.7 * ghost;
   const jg = ghost * (1 - e);
   M.alu.opacity = 1 - 0.72 * jg; M.alu.depthWrite = jg < 0.01;
@@ -419,11 +387,6 @@ function frame(now) {
   const airOn = NOAIR ? 0 : (p < 0.1 || p > 0.96) ? 0.35 : (ghost > 0.3 && e < 0.4) ? 0.8 * (1 - e / 0.4) : 0;
   M.air.opacity += (airOn - M.air.opacity) * 0.1;
   airG.children.forEach(ch => { if (ch.userData.c) { ch.userData.t = (ch.userData.t + dt * 0.12) % 1; ch.position.copy(ch.userData.c.getPointAt(ch.userData.t)); } });
-
-  const flowOn = (ghost > 0.3 && e < 0.4) ? 0.95 * (1 - e / 0.4) : 0;
-  M.flow.opacity += (flowOn - M.flow.opacity) * 0.1;
-  const c = flowG.userData.curve;
-  flowG.children.forEach(ch => { if (ch.userData.t !== undefined) { ch.userData.t = (ch.userData.t + dt * 0.06) % 1; ch.position.copy(c.getPointAt(ch.userData.t)); } });
 
   renderer.render(scene, camera);
 
